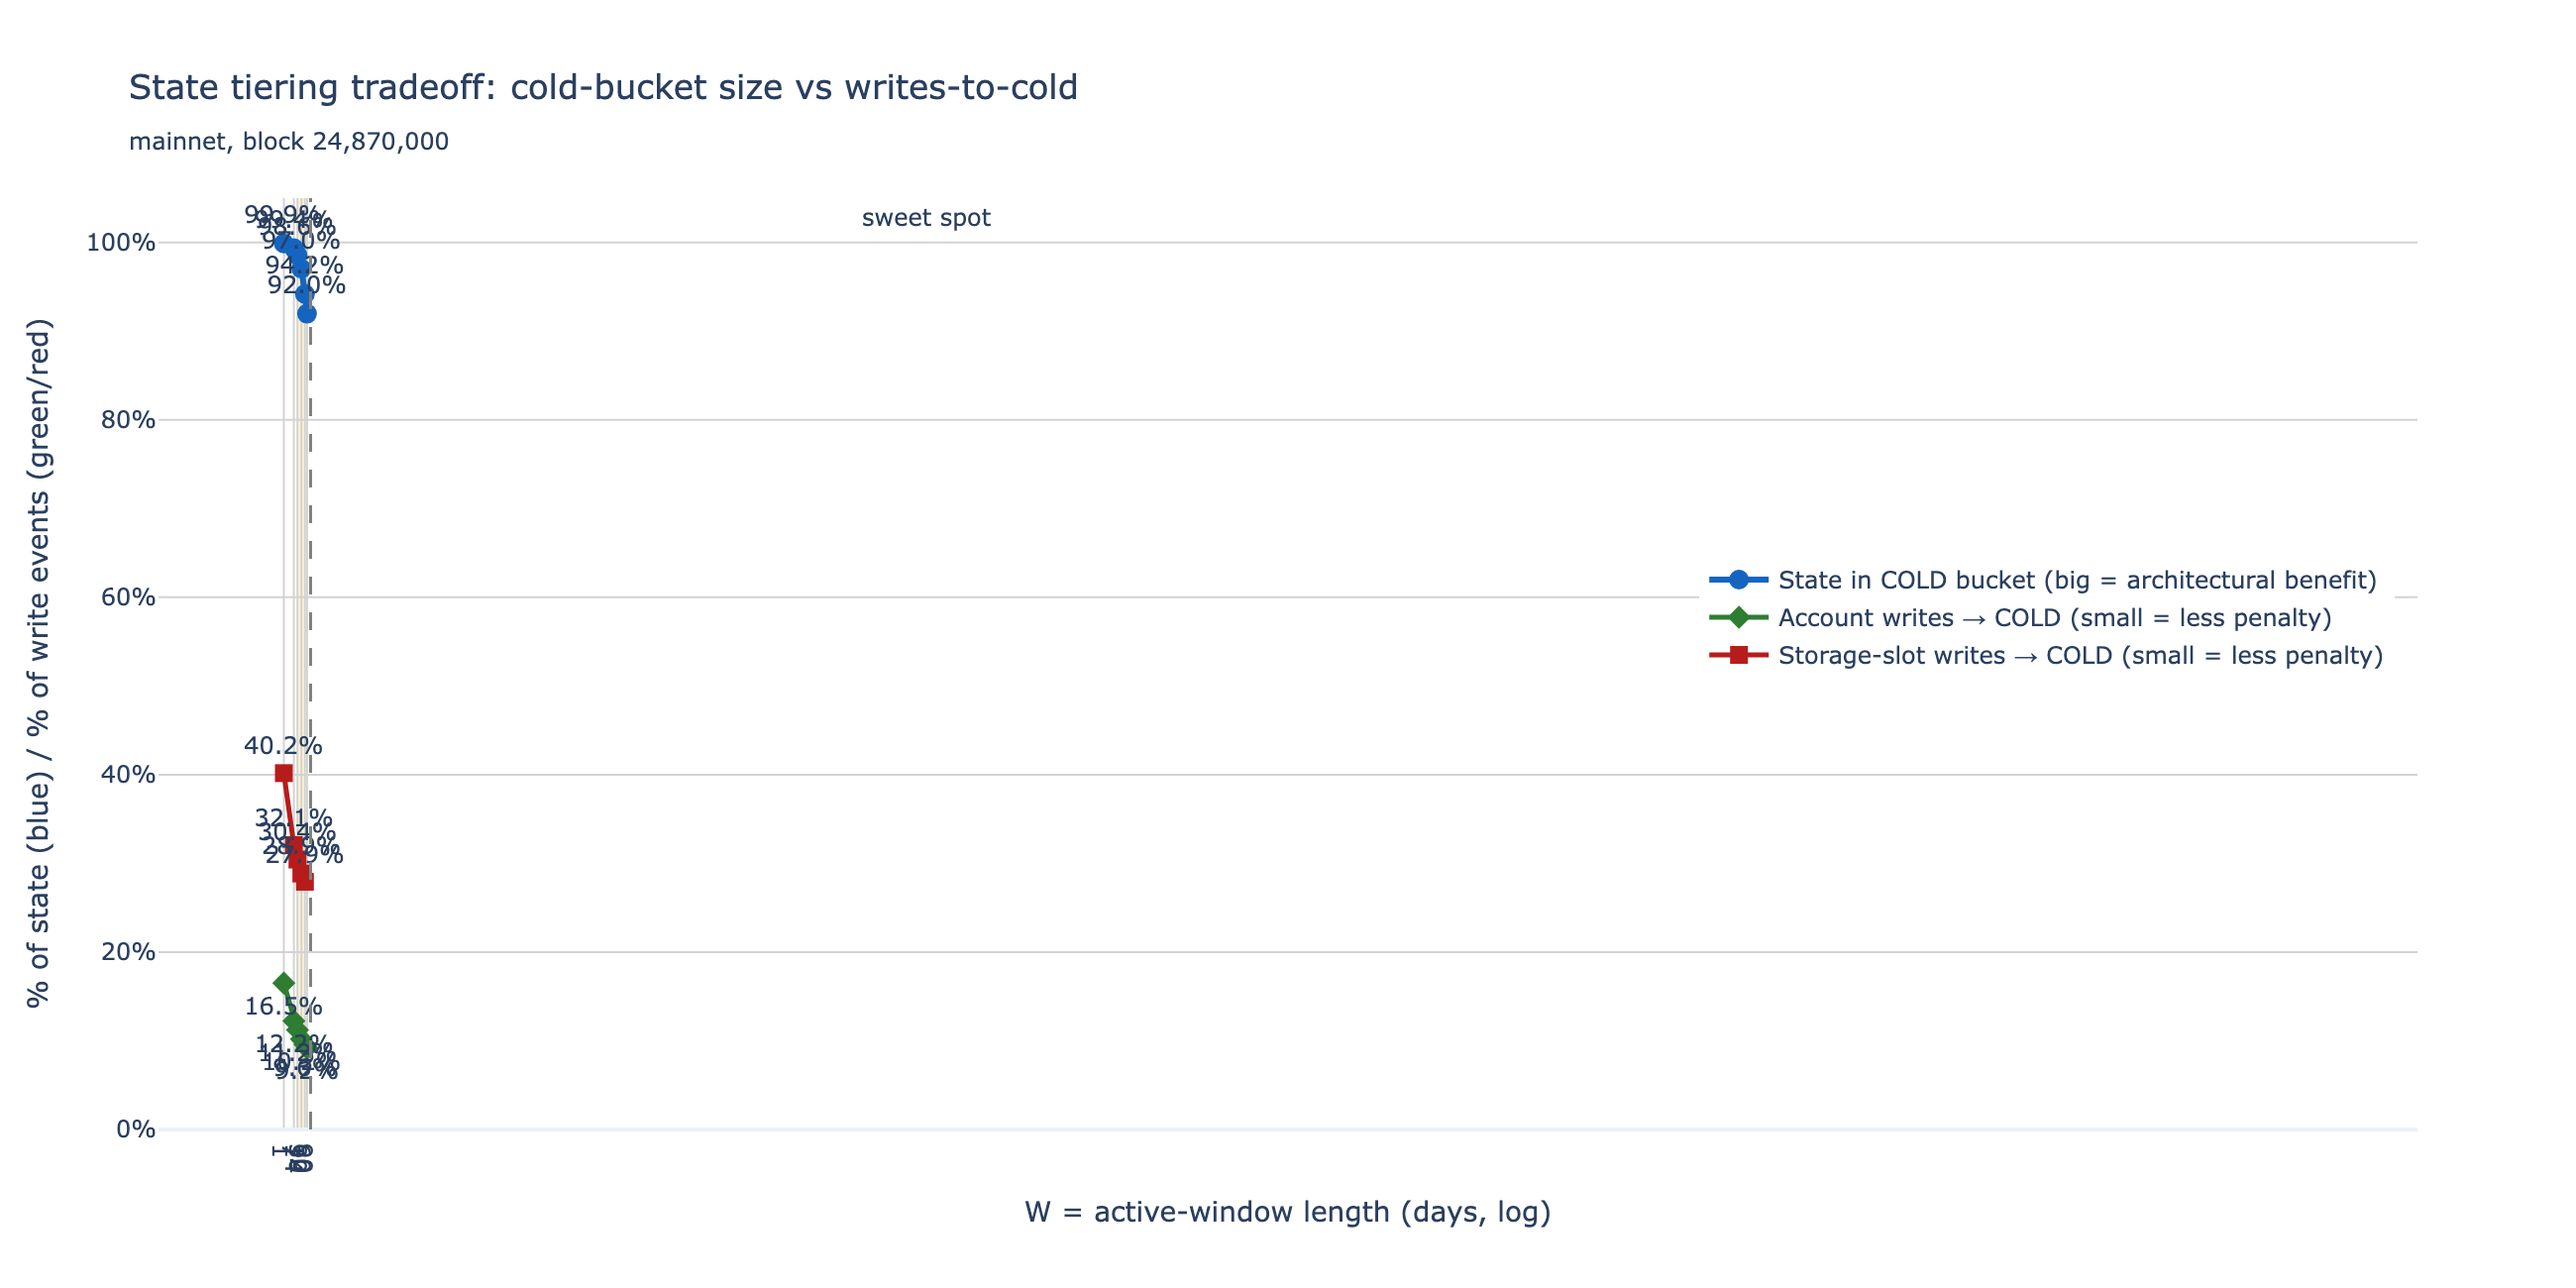
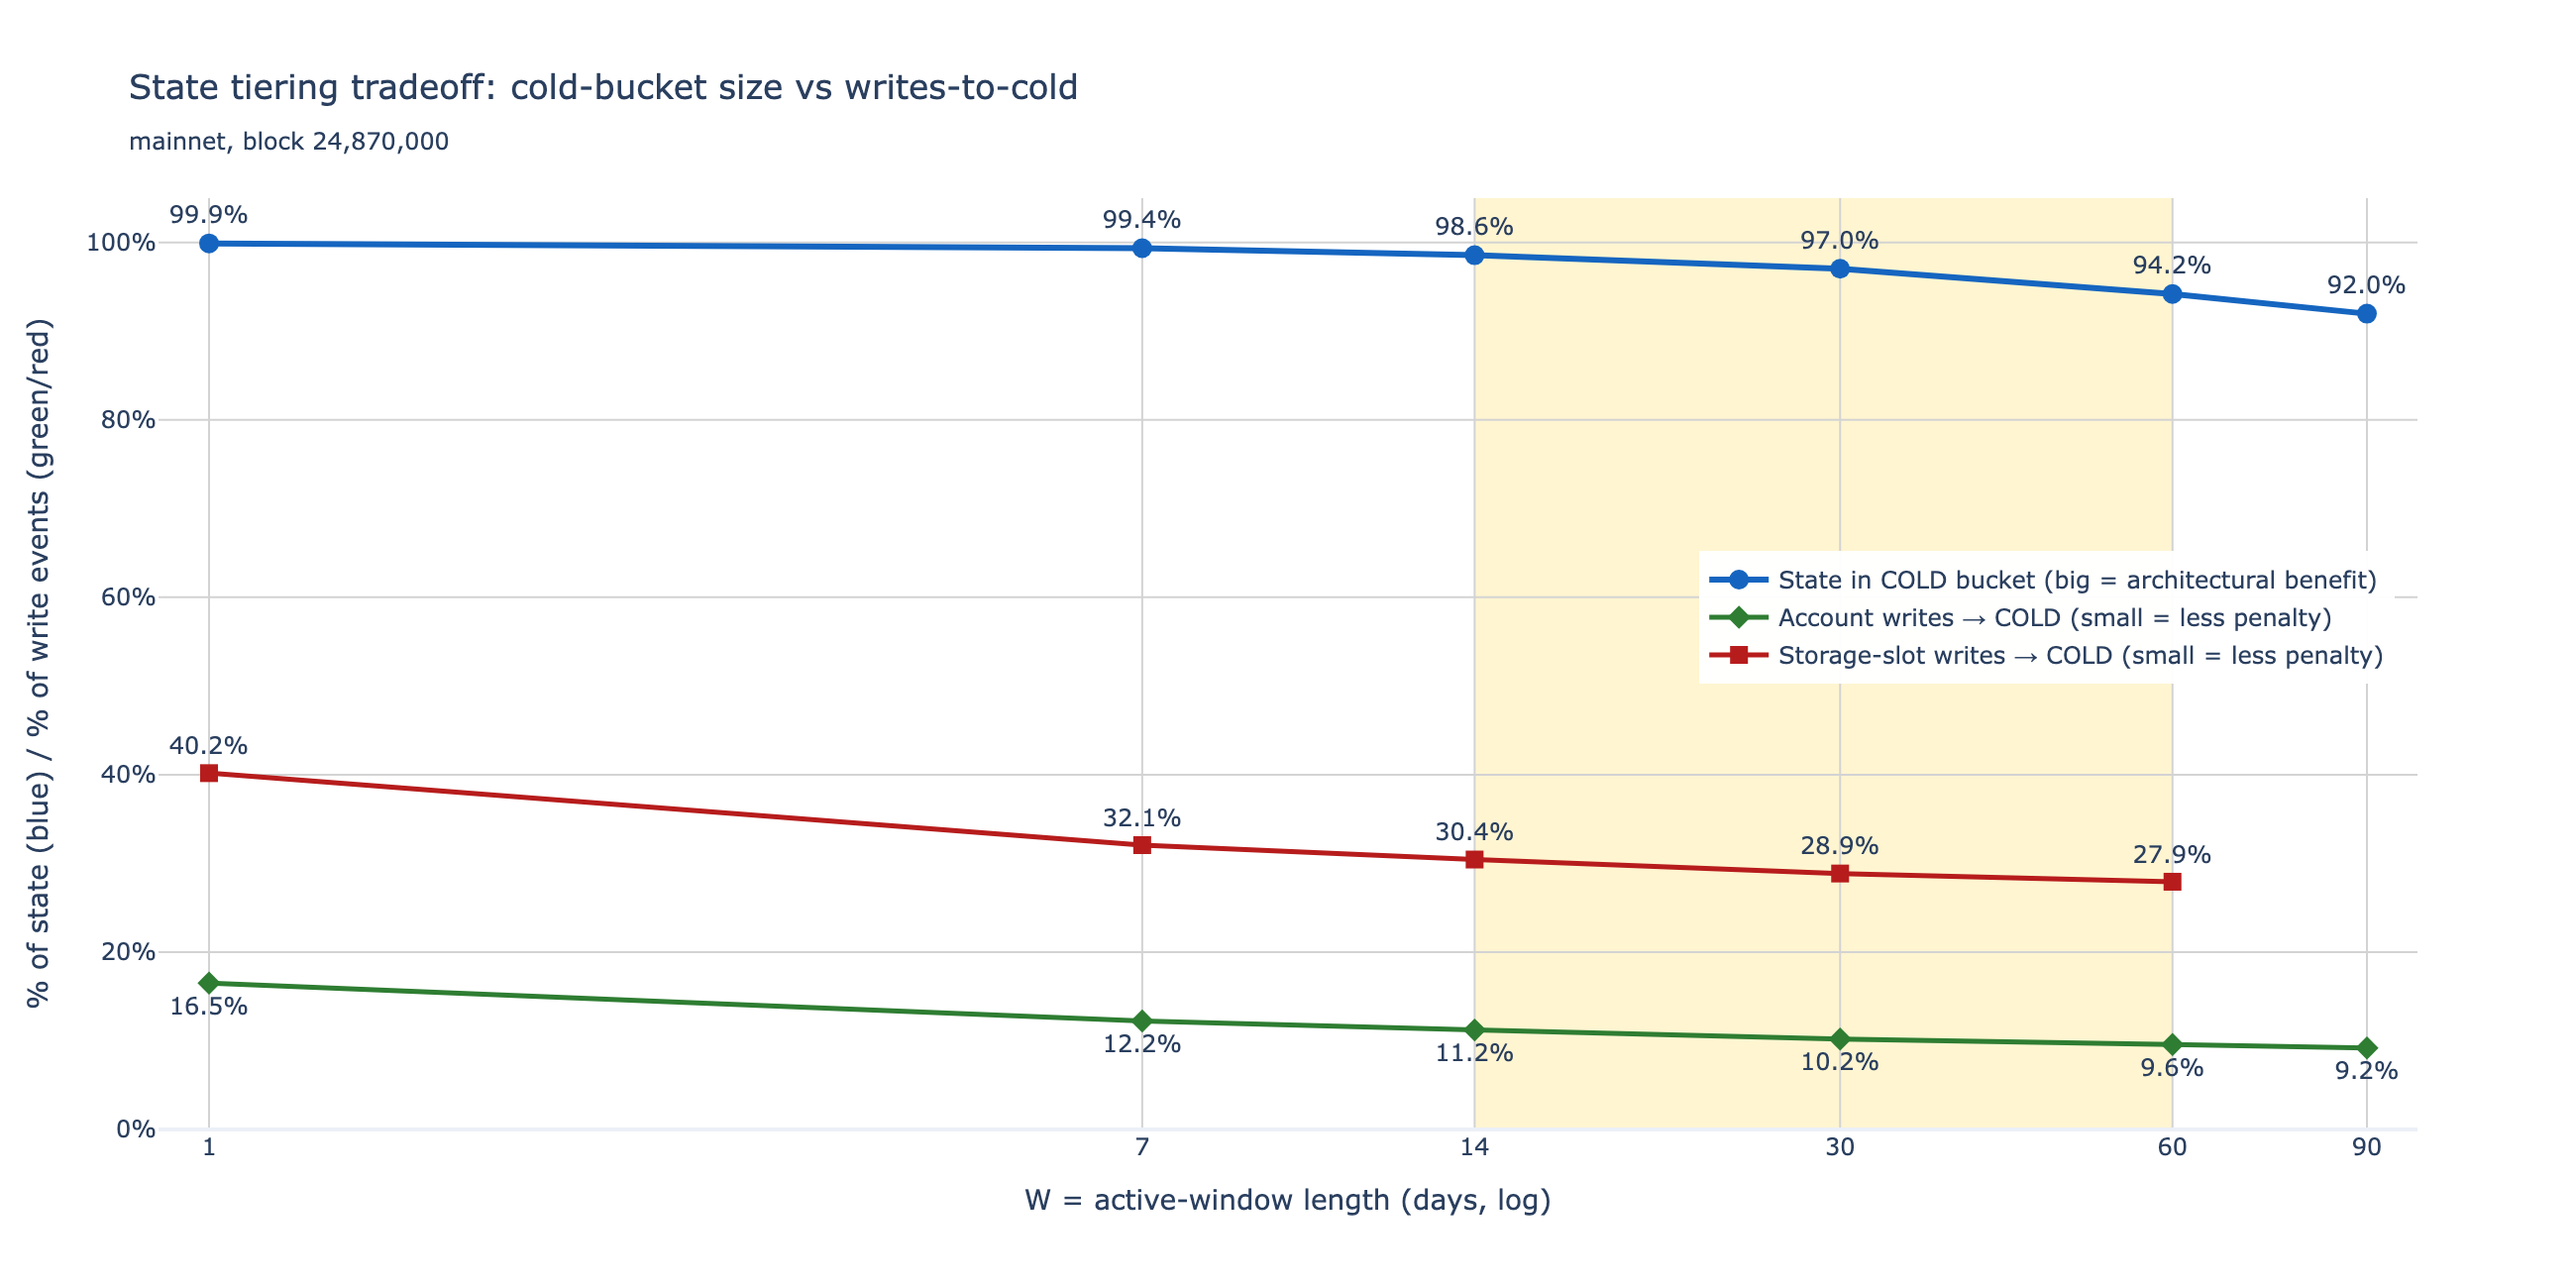
Fix tradeoff chart: log-axis range + raw vrect coords, drop off-range 180d marker

Changed region(s): [[0.0623, 0.1538, 0.9346, 0.9231], [0.3738, 0.9231, 0.6231, 0.9538], [0.1869, 0.6154, 0.3738, 0.6462]]

diff --git a/state_access/analysis.py b/state_access/analysis.py
@@ -11,6 +11,7 @@ a script, saving PNGs next to the parquets.
 from __future__ import annotations
 
 import json
+import math
 
 import pandas as pd
 import plotly.graph_objs as go
@@ -124,14 +125,14 @@ fig3.add_trace(go.Scatter(
     line=dict(color=STORAGE_COLOR, width=2.5), marker=dict(size=9, symbol="square"),
     text=[f"{v:.1f}%" for v in stor["storage_writes_cold_pct"]], textposition="top center",
 ))
+# On a log x-axis, add_vrect takes raw data values, but layout range (below) is in log10.
 fig3.add_vrect(x0=14, x1=60, fillcolor="rgba(255,200,0,0.18)", line_width=0, layer="below",
                annotation_text="sweet spot", annotation_position="top right")
-fig3.add_vline(x=180, line=dict(color="gray", width=1.5, dash="dash"),
-               annotation_text="EIP-8188 target ≈ 180d", annotation_position="bottom left")
 fig3.update_layout(
     title="State tiering tradeoff: cold-bucket size vs writes-to-cold"
           f"<br><sub>mainnet, block {totals['snapshot_block']:,}</sub>",
     xaxis=dict(title="W = active-window length (days, log)", type="log",
+               range=[math.log10(0.9), math.log10(100)],
                tickvals=tradeoff["window_days"].tolist(), gridcolor="lightgray"),
     yaxis=dict(title="% of state (blue) / % of write events (green/red)",
                range=[0, 105], ticksuffix="%", gridcolor="lightgray"),
